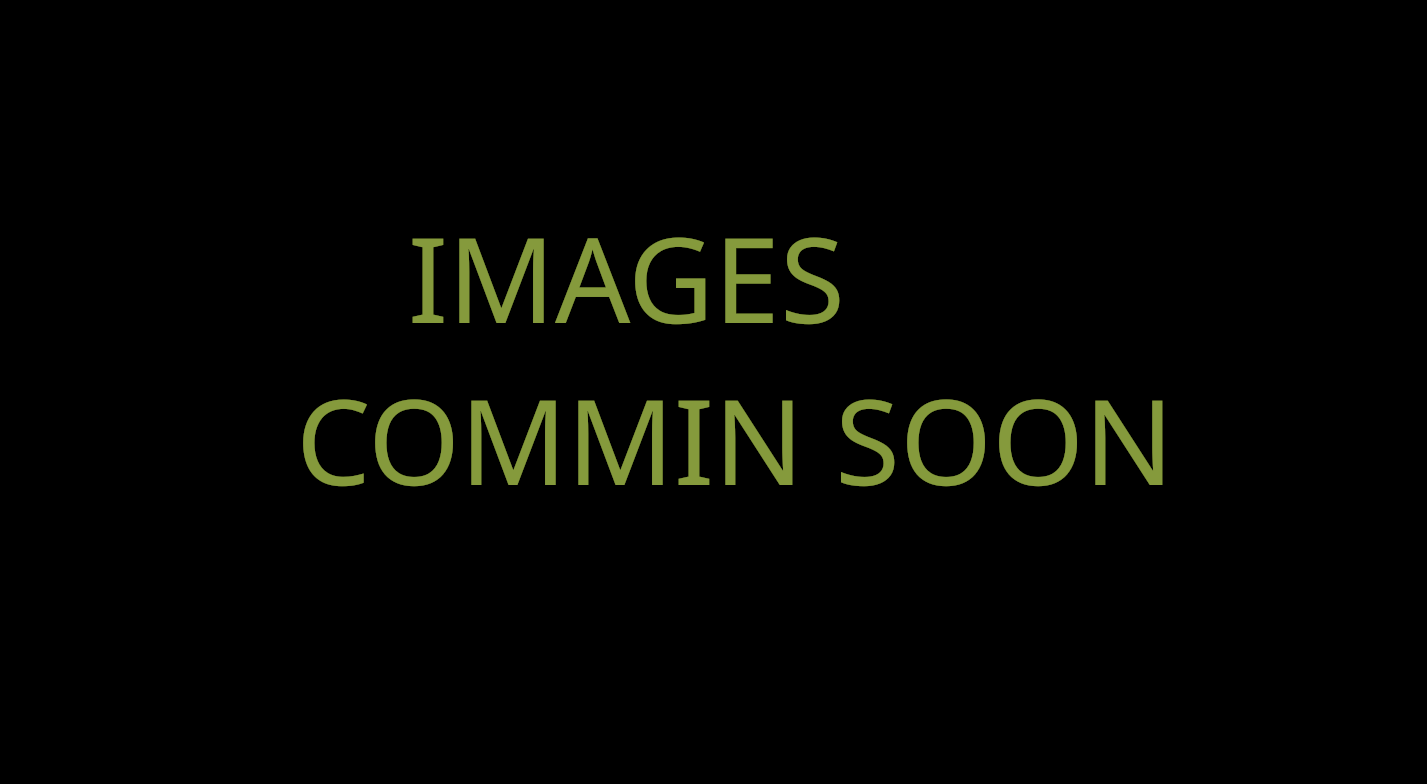
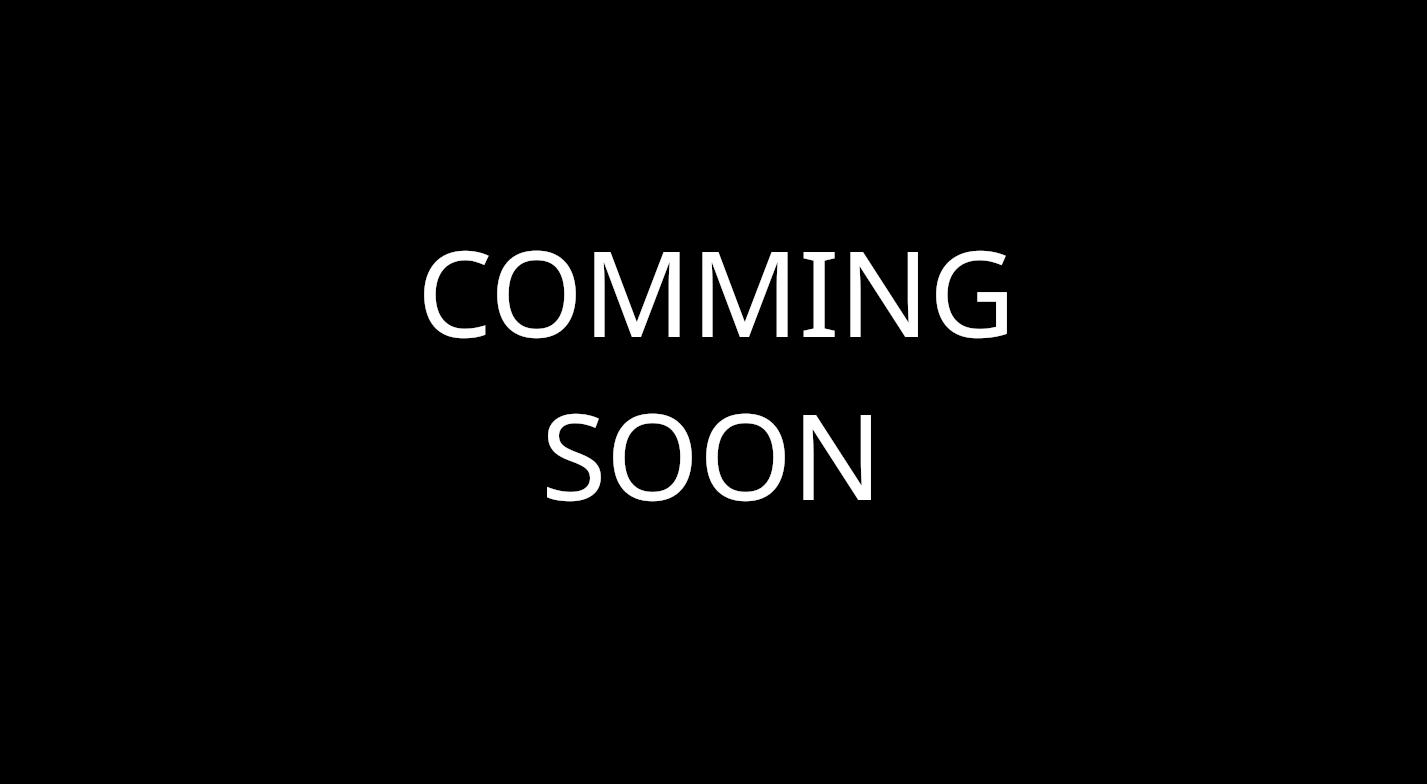
feat(ui): implement system-status footer and theme-aware branding
- Add new `Footer` component with glassmorphism design
- Move Logo, AI Chat toggle, and Terminal toggle to footer
- Implement dynamic theme-aware Logo and Favicon management
- Add GitHub and LinkedIn icons with theme-aware coloring
- Refactor `AIChat` and `TerminalToggle` to be flexible UI components
- Optimize footer layout for mobile and desktop with responsive sizing
- Remove floating logo and independent floating toggles
- Update layout to include Footer and remove standalone toggles

Changed region(s): [[0.185, 0.4898, 0.8325, 0.6429], [0.2775, 0.3061, 0.7092, 0.4286]]

diff --git a/src/components/ui/footer.tsx b/src/components/ui/footer.tsx
@@ -1,0 +1,89 @@
+"use client";
+
+import { motion } from "framer-motion";
+import { Link } from "@/i18n/navigation";
+import { Github, Linkedin } from "lucide-react";
+import { useTheme } from "next-themes";
+import { ThemeImage } from "./theme-image";
+import { TerminalToggle } from "./terminal-toggle";
+import { AIChat } from "@/components/features/ai-chat";
+
+export const Footer = () => {
+  const { resolvedTheme } = useTheme();
+  
+  // Theme-aware icon colors matching the logo
+  const getIconColor = () => {
+    switch (resolvedTheme) {
+      case 'light':
+        return 'text-black';
+      case 'dark':
+        return 'text-white';
+      case 'middle':
+        return 'text-yellow-500';
+      default:
+        return 'text-foreground';
+    }
+  };
+
+  return (
+    <motion.footer
+      initial={{ y: 100, opacity: 0 }}
+      animate={{ y: 0, opacity: 1 }}
+      transition={{ delay: 0.1 }}
+      className="fixed bottom-0 w-full h-14 z-40 bg-background/80 backdrop-blur-md border-t border-border/50"
+    >
+      <div className="flex items-center justify-between px-6 h-full py-1.5">
+        {/* Left: Logo and Social Icons */}
+        <div className="flex items-center gap-4 h-full">
+          <Link
+            href="/"
+            className="flex items-center justify-center hover:opacity-80 transition-opacity h-full"
+            aria-label="Home"
+          >
+            <ThemeImage
+              srcLight="/logos/logo-black.png"
+              srcDark="/logos/logo-white.png"
+              srcMiddle="/logos/logo-gold.png"
+              alt="Logo"
+              width={160}
+              height={160}
+              className="w-auto h-8 sm:h-9 object-contain"
+            />
+          </Link>
+
+          {/* Social Icons */}
+          <div className="flex items-center gap-2 h-full">
+            <a
+              href="https://github.com/Tquillity"
+              target="_blank"
+              rel="noopener noreferrer"
+              className={`flex items-center justify-center p-3 rounded-full hover:bg-primary/10 transition-colors ${getIconColor()}`}
+              aria-label="GitHub"
+            >
+              <Github className="w-5 h-5 sm:w-6 sm:h-6" />
+            </a>
+            <a
+              href="https://www.linkedin.com/in/mikael-sundh/"
+              target="_blank"
+              rel="noopener noreferrer"
+              className={`flex items-center justify-center p-3 rounded-full hover:bg-primary/10 transition-colors ${getIconColor()}`}
+              aria-label="LinkedIn"
+            >
+              <Linkedin className="w-5 h-5 sm:w-6 sm:h-6" />
+            </a>
+          </div>
+        </div>
+
+        {/* Right: Toggle Buttons */}
+        <div className="flex items-center gap-4 h-full">
+          <div className="flex items-center h-full">
+            <AIChat />
+          </div>
+          <div className="flex items-center h-full">
+            <TerminalToggle />
+          </div>
+        </div>
+      </div>
+    </motion.footer>
+  );
+};

diff --git a/src/components/ui/floating-navbar.tsx b/src/components/ui/floating-navbar.tsx
@@ -36,17 +36,17 @@ export const FloatingNavbar = ({ locale }: { locale: string }) => {
 
   return (
     <div className="fixed top-6 inset-x-0 max-w-fit mx-auto z-50 pointer-events-none">
-      <div className="pointer-events-auto">
-        <motion.div
-          initial={{ y: -100, opacity: 0 }}
-          animate={{ y: 0, opacity: 1 }}
-          className={cn(
-            "flex items-center gap-1 p-2 rounded-full border border-border/50 transition-all duration-300",
-            scrolled
-              ? "bg-popover/80 backdrop-blur-md shadow-lg py-2"
-              : "bg-popover/50 backdrop-blur-sm shadow-sm py-3"
-          )}
-        >
+        <div className="pointer-events-auto">
+          <motion.div
+            initial={{ y: -100, opacity: 0 }}
+            animate={{ y: 0, opacity: 1 }}
+            className={cn(
+              "flex items-center gap-1 p-2 rounded-full border border-border/50 transition-all duration-300",
+              scrolled
+                ? "bg-popover/80 backdrop-blur-md shadow-lg py-2"
+                : "bg-popover/50 backdrop-blur-sm shadow-sm py-3"
+            )}
+          >
           {navItems.map((item) => {
             // pathname from @/i18n/navigation does NOT include the locale prefix
             // so we can compare directly against item.link

diff --git a/src/app/[locale]/layout.tsx b/src/app/[locale]/layout.tsx
@@ -2,9 +2,8 @@ import type { Metadata } from "next";
 import { Inter } from "next/font/google";
 import { getMessages } from "next-intl/server";
 import { Providers } from "@/components/providers";
-import { AIChat } from "@/components/features/ai-chat";
-import { TerminalToggle } from "@/components/ui/terminal-toggle";
 import { FloatingNavbar } from "@/components/ui/floating-navbar";
+import { Footer } from "@/components/ui/footer";
 import { TerminalModal } from "@/components/features/terminal-modal";
 import { TerminalProvider } from "@/lib/terminal-context";
 import { BackgroundProvider } from "@/lib/background-context";
@@ -17,6 +16,7 @@ const inter = Inter({ subsets: ["latin"] });
 export const metadata: Metadata = {
   title: "Portfolio 2025",
   description: "My Portfolio",
+  // Favicon is managed dynamically by FaviconManager component based on theme
 };
 
 export default async function RootLayout({
@@ -39,9 +39,8 @@ export default async function RootLayout({
               <BackgroundDimmer />
               <FloatingNavbar locale={locale} />
               {children}
-              <AIChat />
               <TerminalModal locale={locale} />
-              <TerminalToggle />
+              <Footer />
             </BackgroundProvider>
           </TerminalProvider>
         </Providers>

diff --git a/src/components/ui/theme-image.tsx b/src/components/ui/theme-image.tsx
@@ -1,0 +1,46 @@
+"use client";
+
+import { useState, useEffect } from "react";
+import Image, { ImageProps } from "next/image";
+import { useTheme } from "next-themes";
+
+interface ThemeImageProps extends Omit<ImageProps, "src"> {
+  srcLight: string;
+  srcDark: string;
+  srcMiddle: string;
+  alt: string;
+}
+
+export const ThemeImage = ({ srcLight, srcDark, srcMiddle, alt, ...imageProps }: ThemeImageProps) => {
+  const { resolvedTheme } = useTheme();
+  const [mounted, setMounted] = useState(false);
+
+  // Avoid hydration mismatch by not rendering until mounted
+  useEffect(() => {
+    setMounted(true);
+  }, []);
+
+  if (!mounted) {
+    // Return a placeholder with the same dimensions to prevent layout shift
+    return (
+      <div 
+        style={{ 
+          width: imageProps.width || "32px", 
+          height: imageProps.height || "32px" 
+        }}
+        className={imageProps.className}
+      />
+    );
+  }
+
+  // Map theme to image source
+  const imageMap: Record<string, string> = {
+    light: srcLight,
+    dark: srcDark,
+    middle: srcMiddle,
+  };
+
+  const src = imageMap[resolvedTheme || "light"] || srcLight;
+
+  return <Image src={src} alt={alt} {...imageProps} />;
+};

diff --git a/src/components/ui/terminal-toggle.tsx b/src/components/ui/terminal-toggle.tsx
@@ -2,14 +2,22 @@
 
 import { Terminal } from "lucide-react";
 import { useTerminal } from "@/lib/terminal-context";
+import { cn } from "@/lib/utils";
 
-export const TerminalToggle: React.FC = () => {
+interface TerminalToggleProps {
+  className?: string;
+}
+
+export const TerminalToggle: React.FC<TerminalToggleProps> = ({ className }) => {
   const { toggle } = useTerminal();
 
   return (
     <button
       onClick={toggle}
-      className="fixed bottom-6 right-6 z-50 p-3 rounded-full bg-primary text-primary-foreground hover:bg-black hover:text-green-500 hover:shadow-[0_0_15px_rgba(34,197,94,0.5)] transition-all duration-300"
+      className={cn(
+        "p-3 rounded-full bg-primary text-primary-foreground hover:bg-black hover:text-green-500 hover:shadow-[0_0_15px_rgba(34,197,94,0.5)] transition-all duration-300 shadow-lg",
+        className
+      )}
       aria-label="Toggle Terminal Mode"
     >
       <Terminal className="w-6 h-6" />

diff --git a/src/components/features/ai-chat.tsx b/src/components/features/ai-chat.tsx
@@ -14,7 +14,11 @@ interface Message {
   content: string;
 }
 
-export const AIChat: React.FC = () => {
+interface AIChatProps {
+  className?: string;
+}
+
+export const AIChat: React.FC<AIChatProps> = ({ className }) => {
   const t = useTranslations("AIChat");
   const [isOpen, setIsOpen] = useState(false);
   const [input, setInput] = useState("");
@@ -92,7 +96,10 @@ export const AIChat: React.FC = () => {
       <button
         ref={buttonRef}
         onClick={() => setIsOpen(!isOpen)}
-        className="fixed bottom-6 right-20 z-50 p-3 rounded-full bg-primary text-primary-foreground hover:bg-primary/90 transition-colors shadow-lg"
+        className={cn(
+          "p-3 rounded-full bg-primary text-primary-foreground hover:bg-primary/90 transition-colors shadow-lg",
+          className
+        )}
         aria-label={t('toggle_label')}
       >
         {isOpen ? <X className="w-6 h-6" /> : <MessageCircle className="w-6 h-6" />}

diff --git a/src/components/ui/favicon-manager.tsx b/src/components/ui/favicon-manager.tsx
@@ -1,0 +1,33 @@
+"use client";
+
+import { useEffect } from "react";
+import { useTheme } from "next-themes";
+
+export const FaviconManager = () => {
+  const { resolvedTheme } = useTheme();
+
+  useEffect(() => {
+    if (!resolvedTheme) return;
+
+    // Find the existing favicon link or create one
+    let link = document.querySelector("link[rel='icon']") as HTMLLinkElement;
+    
+    if (!link) {
+      link = document.createElement("link");
+      link.rel = "icon";
+      document.head.appendChild(link);
+    }
+
+    // Map theme to favicon
+    const faviconMap: Record<string, string> = {
+      light: "/logos/favicon-light.ico",
+      dark: "/logos/favicon-dark.ico",
+      middle: "/logos/favicon-middle.ico",
+    };
+
+    const faviconPath = faviconMap[resolvedTheme] || faviconMap.light;
+    link.href = faviconPath;
+  }, [resolvedTheme]);
+
+  return null; // This component doesn't render anything
+};

diff --git a/public/index.html b/public/index.html
@@ -5,8 +5,8 @@
     <meta name="viewport" content="width=device-width, initial-scale=1" />
     <meta name="theme-color" content="#000000" />
     <meta name="description" content="Web site created using create-react-app" />
-    <link rel="icon" href="%PUBLIC_URL%/favicon.ico" />
-    <link rel="apple-touch-icon" href="%PUBLIC_URL%/logo192.png" />
+    <link rel="icon" href="%PUBLIC_URL%/logos/favicon.ico" />
+    <link rel="apple-touch-icon" href="%PUBLIC_URL%/logos/logo192.png" />
     <link rel="manifest" href="%PUBLIC_URL%/manifest.json" />
     <link rel="stylesheet" href="https://fonts.googleapis.com/css2?family=Roboto:wght@400;700&display=swap" />
     

diff --git a/src/components/providers.tsx b/src/components/providers.tsx
@@ -2,6 +2,7 @@
 
 import { NextIntlClientProvider, AbstractIntlMessages } from "next-intl";
 import { ThemeProvider } from "next-themes";
+import { FaviconManager } from "@/components/ui/favicon-manager";
 
 interface ProvidersProps {
   children: React.ReactNode;
@@ -18,6 +19,7 @@ export function Providers({ children, locale, messages }: ProvidersProps) {
         enableSystem 
         themes={['light', 'dark', 'middle']}
       >
+        <FaviconManager />
         {children}
       </ThemeProvider>
     </NextIntlClientProvider>
